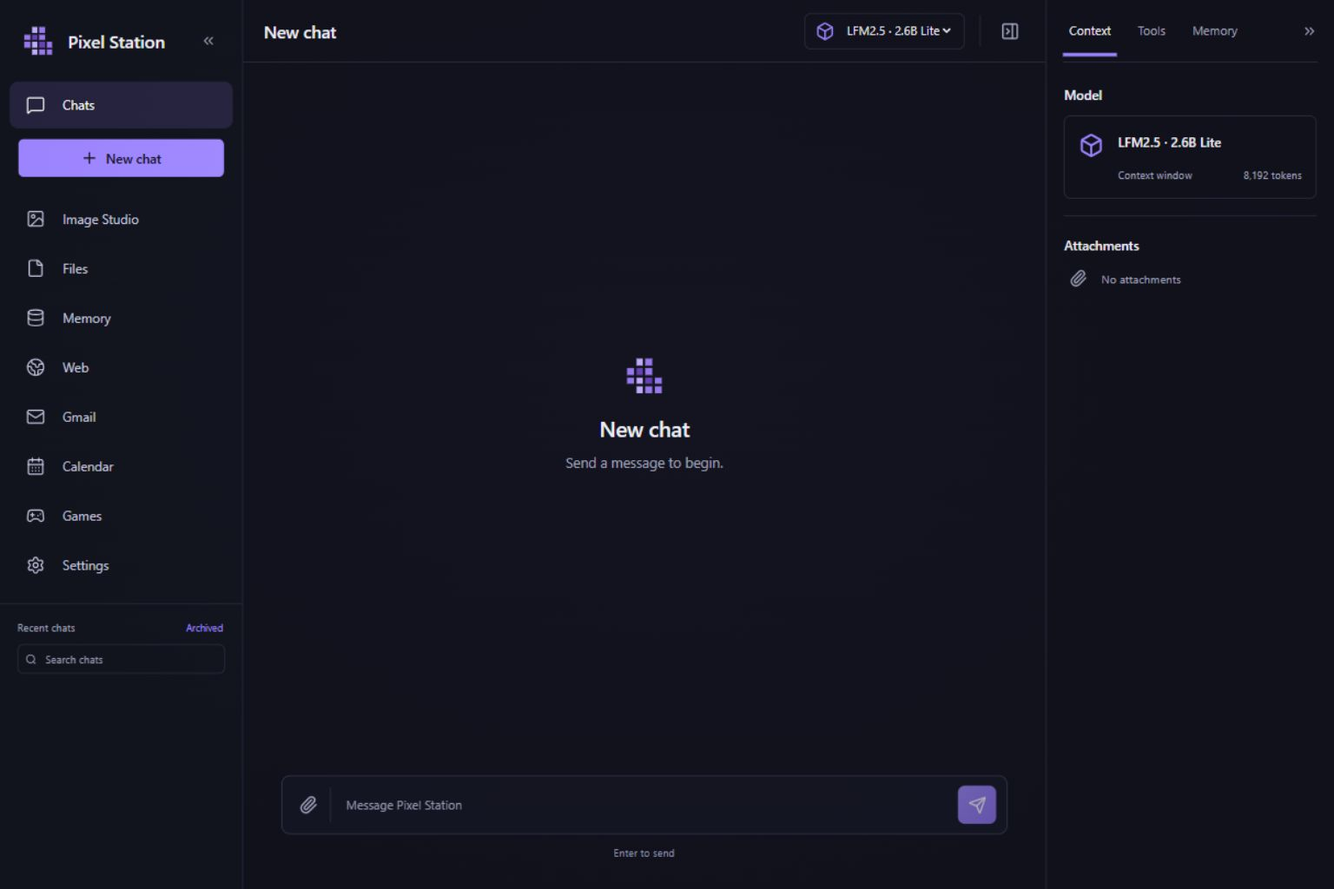
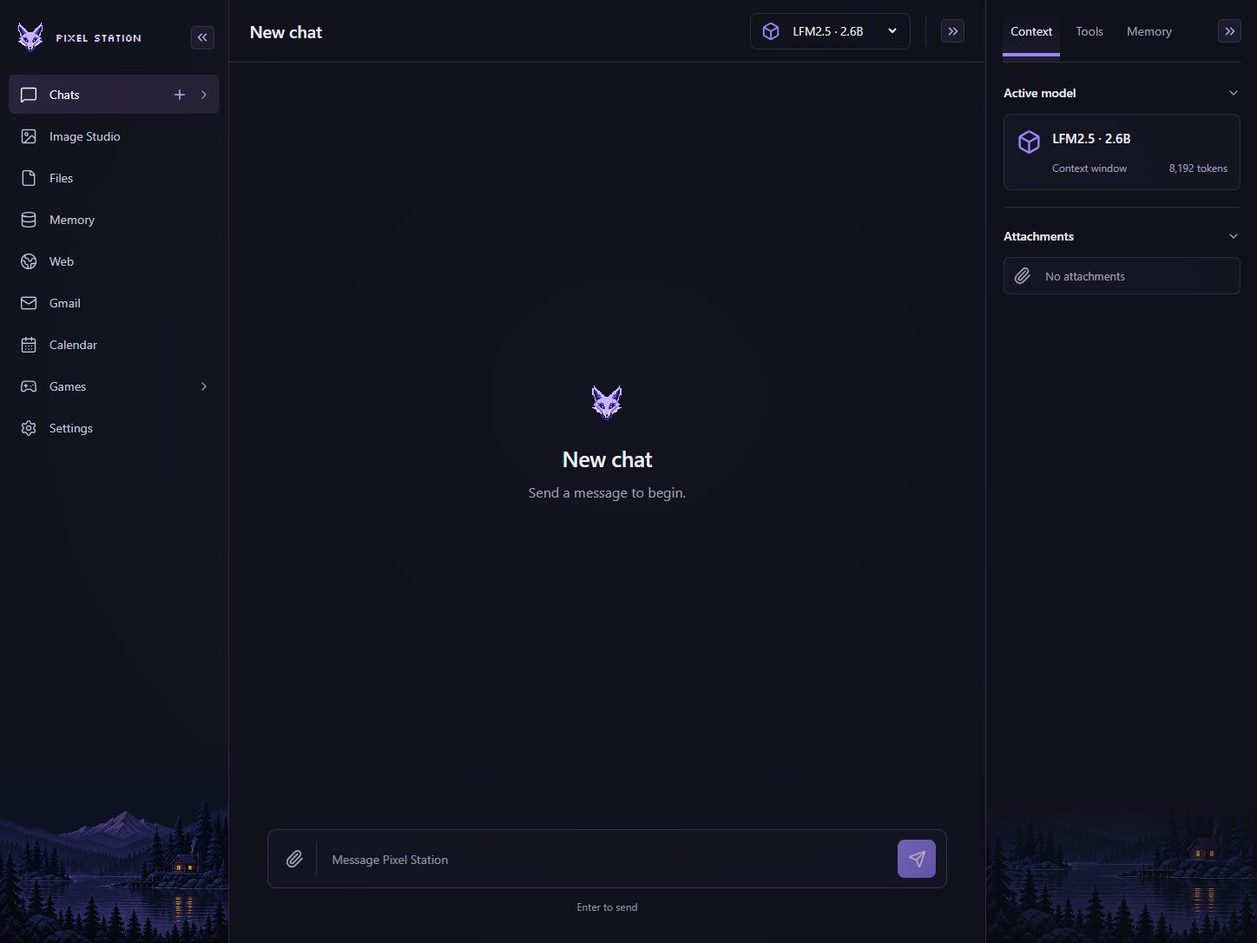
Document measured QA, evaluation scope and public fox interface assets

diff --git a/docs/design/ASSETS.md b/docs/design/ASSETS.md
@@ -1,0 +1,40 @@
+# Pixel Station visual assets
+
+Generated for the interface refinement using Codex's built-in Image Gen tool, in generation mode. These are bundled public UI assets, with no runtime or account content. They do not verify Pixel Station's separate local ComfyUI integration. Portraits use transparent backgrounds; the panel landscape is opaque. CSS preserves the pixel treatment.
+
+- `frontend/public/assets/fox-logo.png`: brand fox; also used for Poker seat 0.
+- `frontend/public/assets/panel-forest.png`: midnight forest, lake and cabin behind both side panels.
+- `frontend/public/assets/poker/seat-1.png` through `seat-5.png`: blue scarf, golden glasses, teal hood, pink cap and amber bandana foxes.
+- `frontend/public/assets/fonts/Silkscreen-Regular.ttf`: [Silkscreen](https://fonts.google.com/specimen/Silkscreen), bundled with its [SIL Open Font License](https://github.com/google/fonts/blob/main/ofl/silkscreen/OFL.txt). Used for the wordmark, with readable UI type elsewhere.
+
+## Generation prompts
+
+### Brand
+
+Use case: logo-brand. Production UI asset: a single pixel-art fox face logo for Pixel Station. Transparent background. Symmetrical front-facing fox head with tall pointed ears, square stepped silhouette, pale lavender face outline and violet indigo ear shadows, two small bright square eyes and a tiny pixel nose. Match refined 1990s 16-bit dark navy desktop UI style, violet #a58aff and pale #cbb9ff. Clearly FOX, not cat: long pointed muzzle and cheek tufts, fox ears. Draw with a disciplined 32x32 or 48x48 pixel grid scaled with perfectly crisp hard square edges. Tight centered crop with the full mark occupying 85% of the square canvas. No text, no badge, no border container, no glow, no gradients, no shadows, no watermark. This will be rendered as a 36px navigation logo and as a small assistant avatar.
+
+### Landscape
+
+Use case: stylized-concept. Production background asset for narrow desktop side panels. A tall portrait 2:3 pixel-art night scene in a refined 16-bit navy and violet palette, matching a dark personal AI workstation. Upper two thirds are nearly empty deep navy #10131f sky so UI content can stay readable. All scenery sits in the bottom third: layered dark indigo pine forests, a small distant violet mountain, a tiny timber cabin with two warm golden illuminated windows near the lower right, a quiet lake reflecting a few golden and violet pixels at the bottom edge. Crisp square pixels, disciplined pixel grid, restrained atmospheric detail, no painted/blurred edges. Bottom edge dense foreground pines; top fades naturally into matching dark navy sky. No text, no logos, no UI, no buttons, no stars behind the upper content. Elegant and calm. Opaque background.
+
+### Poker portraits
+
+#### Seat 1
+
+Use case: stylized-concept. Production portrait icon for a Poker player in Pixel Station. A single front-facing pixel-art FOX head portrait on a genuinely transparent background, centered tight crop filling 85% of a square. Same visual family as a violet pixel fox logo: tall fox ears, long pointed muzzle, square cheek tufts, pale lavender #cbb9ff face, dark indigo shadows and violet #a58aff accents, small bright square eyes. Disciplined 32x32 or48x48 pixel grid scaled with crisp hard square edges, no smooth rendering, no border container, no text, no numbers, no poker cards, no background, no watermark. Friendly distinct personality. Blue scarf tied beneath the chin, with a cobalt band and small square knot. Alert friendly expression.
+
+#### Seat 2
+
+Use case: stylized-concept. Production portrait icon for a Poker player in Pixel Station. A single front-facing pixel-art FOX head portrait on a genuinely transparent background, centered tight crop filling 85% of a square. Same visual family as a violet pixel fox logo: tall fox ears, long pointed muzzle, square cheek tufts, pale lavender #cbb9ff face, dark indigo shadows and violet #a58aff accents, small bright square eyes. Disciplined 32x32 or48x48 pixel grid scaled with crisp hard square edges, no smooth rendering, no border container, no text, no numbers, no poker cards, no background, no watermark. Friendly distinct personality. Small golden square spectacles clearly frame the eyes; confident thoughtful expression.
+
+#### Seat 3
+
+Use case: stylized-concept. Production portrait icon for a Poker player in Pixel Station. A single front-facing pixel-art FOX head portrait on a genuinely transparent background, centered tight crop filling 85% of a square. Same visual family as a violet pixel fox logo: tall fox ears, long pointed muzzle, square cheek tufts, pale lavender #cbb9ff face, dark indigo shadows and violet #a58aff accents, small bright square eyes. Disciplined 32x32 or48x48 pixel grid scaled with crisp hard square edges, no smooth rendering, no border container, no text, no numbers, no poker cards, no background, no watermark. Friendly distinct personality. A teal hood frames the face with pointed fox ears emerging; calm composed expression.
+
+#### Seat 4
+
+Use case: stylized-concept. Production portrait icon for a Poker player in Pixel Station. A single front-facing pixel-art FOX head portrait on a genuinely transparent background, centered tight crop filling 85% of a square. Same visual family as a violet pixel fox logo: tall fox ears, long pointed muzzle, square cheek tufts, pale lavender #cbb9ff face, dark indigo shadows and violet #a58aff accents, small bright square eyes. Disciplined 32x32 or48x48 pixel grid scaled with crisp hard square edges, no smooth rendering, no border container, no text, no numbers, no poker cards, no background, no watermark. Friendly distinct personality. A small berry-pink knit cap sits between the ears; cheerful expression.
+
+#### Seat 5
+
+Use case: stylized-concept. Production portrait icon for a Poker player in Pixel Station. A single front-facing pixel-art FOX head portrait on a genuinely transparent background, centered tight crop filling 85% of a square. Same visual family as a violet pixel fox logo: tall fox ears, long pointed muzzle, square cheek tufts, pale lavender #cbb9ff face, dark indigo shadows and violet #a58aff accents, small bright square eyes. Disciplined 32x32 or48x48 pixel grid scaled with crisp hard square edges, no smooth rendering, no border container, no text, no numbers, no poker cards, no background, no watermark. Friendly distinct personality. An amber bandana crosses the forehead with a tiny side knot; bold playful expression.

diff --git a/docs/ARCHITECTURE.md b/docs/ARCHITECTURE.md
@@ -4,16 +4,20 @@ Pixel Station is a local FastAPI application with a React/Vite frontend. The HTT
 
 `frontend/src` owns views and accessible controls. `backend/pixel_station` owns routes, deterministic services and provider adapters. `backend/tests` verifies rules and persistence. `config` holds non-secret integration examples. `data` holds databases, uploads, generated artifacts, images and logs and is ignored by Git.
 
-The request workflow is route → retrieve bounded context → execute relevant tools → validate → stream a synthesized answer → persist. Plans and tool permissions are checked by application code. The inference adapter discards separate thinking fields and inline reasoning regions before public streaming or structured validation, including split and unterminated tags. Literal code and JSON-string examples remain content. External mutations require explicit confirmation of a concrete action.
+The request workflow is route → retrieve bounded context → execute relevant tools → validate → stream a synthesized answer → persist. Plans and tool permissions are checked by application code. The inference adapter discards separate thinking fields and inline reasoning regions before public streaming or structured validation, including split and unterminated tags. Literal code and JSON-string examples remain content. Gmail sends and Calendar mutations require explicit confirmation of a concrete action; an explicitly requested Gmail draft is saved directly and verified through its returned ID.
 
 Provider interfaces cover inference, embeddings, vision, images, search, web fetch, memory/vector stores, files, email/calendar, tools, games and scheduling. SQLite FTS5 provides lexical search; vector implementation is isolated. Optional integrations can be unavailable without preventing chat or local data management.
 
 API conventions: `/api/health`, `/api/models`, `/api/settings`, `/api/conversations`, `/api/memory`, `/api/files`, `/api/web`, `/api/images`, `/api/google`, `/api/poker`, `/api/harness`. IDs are stable strings. Streaming chat uses newline-delimited JSON events with `type` and event-specific fields. Provider failures return setup and recovery information.
 
+Poker's progressive mutations persist the immediate human move. The NDJSON step endpoint commits one opponent decision or street reveal, with public queued/choosing snapshots and a stable event sequence. The client waits its selected reading pace before requesting another step. Table locks and expected sequences reject concurrent or stale actions; navigation cancels unfinished inference and returning resumes the saved actor. Legacy JSON flows retain their automatic-opponent behavior.
+
+The watchtower stores content-free per-run metrics in `AgentRun.evidence` and separate passive reports/evaluation jobs in `HarnessReport`. Request-scoped observers collect whitelisted Ollama terminal counters without prompts or reasoning. Diagnostic exports omit private content by default. Versioned isolated gates exercise actual core services in temporary databases; bounded native probes run only on explicit request and use the production answer guard. Completion rates do not grade answer correctness, and estimated context tokens are distinct from native usage. Baselines require matching fixture, runner, configuration, package versions and native scope; native matching additionally requires known equal checkpoint digest and Ollama identity. The bounded scan considers the latest 30 completed evaluations, excluding passive reports.
+
 Complex research uses a bounded, schema-validated tool DAG. A fetch step resolves its URL from a real search result; the model cannot invent a fetch target. Simple chat skips planning. The synthesis call receives one bounded system message containing the selected evidence, which also works with small models whose templates retain only the first system message. Unsupported tool protocol is checked throughout the response and triggers at most one bounded answer retry. A streaming `reset` event clears rejected partial text in both the client and persisted response.
 
 Embeddings use SQLite-vec through an isolated adapter, with a portable cosine fallback. Missing vectors are SQL NULL, allowing the persistent idle indexer to reindex edited content and changed embedding roles. Summaries compact ordered message batches; extraction uses only source user messages and excludes private integration results.
 
-File edits stage and reopen a replacement, bind its exact content and original hash to an expiring single-use proposal, and retain the previous managed copy on confirmation. Google writes use the same concrete approval principle, plus version checks where available. Comfy jobs retain their submission endpoint so subsequent settings changes cannot redirect polling or cancellation.
+File edits stage and reopen a replacement, bind its exact content and original hash to an expiring single-use proposal, and retain the previous managed copy on confirmation. Gmail sends and Calendar mutations use the same concrete approval principle, plus version checks where available. Draft creation has its own explicitly requested, reversible path. Comfy jobs retain their submission endpoint so subsequent settings changes cannot redirect polling or cancellation.
 
 File blobs are immutable and addressed by content hash. Generated artifacts with different requested names have independent attachment records over shared bytes; uploads retain content deduplication. Parse sidecars live under each blob's `records/<attachment-id>` directory, preserving existing legacy sidecars. Editing one record changes only its blob reference and keeps sibling records and revision bytes intact.

diff --git a/IMPLEMENTATION_STATUS.md b/IMPLEMENTATION_STATUS.md
@@ -14,7 +14,7 @@
 - Local friction reports, regression candidates, idle persistent scheduling and consistent backups including nested databases and pending file replacements.
 - Custom dark navy/violet interface, separate desktop panel preferences, compact-screen drawers and real setup/error states for absent providers.
 - Single-command Windows launcher, developer guidance, provider setup documentation, actual UI screenshot and separate hashed CI dependencies.
-- Automated verification: **224 backend tests and 28 frontend tests pass**; Ruff, backend mypy, TypeScript production build and frontend formatting pass. GitHub's Linux CI passed with the universal hashed dependency lock, including the fresh functional fixes (runs 37120189618 and 37120508465).
+- Automated verification: **258 backend tests and 44 frontend tests pass**; Ruff, backend mypy, TypeScript production build and frontend formatting pass. GitHub's Linux CI passed with the universal hashed dependency lock, including the previous functional fixes, watchtower and Poker increments (runs 37120189618, 37120508465, 37135175493 and 37135196482).
 - Live Windows/API/UI verification: native GPU chat, attached-file answers with sources, memory edit/revision/restart, confirmed file edit/original revision, native conversation summary, 1024-dimensional memory/document embeddings, complete legal AI Poker hand without fallback, harness reports and launcher shutdown/restart.
 - Desktop 1536×1024 and compact 390×844 rendered checks; corrected model-control wrapping and overlapping mobile drawers. Optional services display their genuine unconfigured state.
 - Final in-app browser page identity, meaningful DOM, overlay, console and interaction checks passed. Independently toggled desktop panels survive reload; compact navigation closes its drawer and the exposed backdrop dismisses context.
@@ -25,10 +25,15 @@
 - Chat validates tool protocol throughout the streamed response and resets rejected partial text before one bounded repair. Provider filtering discards separate and inline reasoning channels, including split and unterminated tags, while preserving public streaming and literal code/JSON examples.
 - Generated artifacts retain their requested names when sharing identical bytes. Real UI task/download/reopen checks verified `functionality-final.csv`, its exact two rows, the unchanged earlier filename and distinct records sharing one immutable blob. Per-record parse metadata and tests cover deletion/edit/revision isolation.
 - The final official-model conversation passed CSV creation followed by a three-step planning request, with every step below 15 words and no persisted reasoning or stale file claim. Ollama reported 100% GPU inference with an 8K context. A clean browser session had no console warnings/errors or horizontal overflow at 1536×1024; Poker state survived the app restart.
+- Fox logo and pixel wordmark, lower forest/cabin scenery in both panels, compact navigation, independent persistent Chats/Games/inspector disclosures and centered SVG carets. Expansion and drawer transitions respect reduced motion; page changes remain immediate. Hover/focus/mobile trash controls open a concrete confirmation dialog; a disposable real API deletion was verified.
+- Progressive Poker streams commit one bot action or street at a time. Adjustable reading pace, current-actor highlights, chip flights, card reveals, six fox portraits and timestamped public event logs make the hand followable. Actual six-player local-model QA completed 15 events without fallback, conserved 600 chips and survived restart; duplicate/cancel/concurrency paths have regression coverage.
+- Settings → Harness now exposes content-free passive metrics, native Ollama counters, latency sample counts, repairs/fallbacks, bounded diagnostic downloads and versioned isolated gates. Six research steps/four retrieved memories are documented conservative starting limits, not tuned best-practice optima or universal quotas.
+- Two final native runner-3 evaluation runs passed all nine gates with the unchanged fixture. The supplied-file answer recorded one protocol rejection and one bounded repair in each passing run. Matching used actual checkpoint digest, Ollama identity, package versions, fixture and configuration; old failed reports remain preserved. Default diagnostics downloaded through Chrome excluded prompts, outputs, fixture filenames and reasoning. See [verification scope](docs/QA.md) and [evaluation guide](docs/EVALUATIONS.md).
+- Final rendered Chrome checks at 1448×1086 and 390×844 passed without horizontal overflow. The reference comparison covered branding, colors, rail/inspector layout, compact spacing, carets, scenery and composer placement. A fresh final tab had no console warnings/errors; the deliberately public README capture contains an empty conversation and no private history.
 
 ## Currently working
 
-- None for the requested functional verification. Tested fixes are committed and pushed; optional provider setup remains below.
+- This interface, Poker and watchtower refinement phase is complete. Optional integration setup is the next phase.
 
 ## Blocked on account or system setup
 

diff --git a/docs/QA.md b/docs/QA.md
@@ -1,0 +1,24 @@
+# Interface, Poker and watchtower verification
+
+Verified on Windows 11 with Chrome through its connected extension, Ollama 0.32.14 and the installed official `LiquidAI/lfm2.5-2.6b:latest` model. These are actual local UI/API checks, separate from isolated automated tests. Runtime conversations, table IDs, diagnostic downloads and temporary QA captures are not committed.
+
+## Rendered interface
+
+- Compared the rendered 1448 × 1086 desktop against the supplied concept: fox/pixel wordmark, navy/violet palette, left rail and right inspector, compact navigation spacing, centered SVG carets, lower forest/cabin scenery on both panels, and composer geometry.
+- The reference's sample travel answer, decorative game placeholders and unavailable tool success indicators are not application data. The public README capture shows a real empty conversation with installed-model information and no private history.
+- Checked 390 × 844 drawers and Poker seats without horizontal overflow. Drawer dismissal restores header focus; only one mobile drawer opens at a time.
+- Chats, Games and inspector disclosures retain independent preferences. Closed contents are inert; focus exposes the chat trash button. The concrete delete dialog supports cancellation; the actual API rejected unconfirmed deletion and removed an explicitly confirmed disposable QA conversation.
+- Native select options use readable foreground/background colors. Page navigation is immediate; expansion and panel resizing use transitions with reduced-motion support.
+- A fresh final Chrome tab showed the correct page identity, meaningful content and no console warnings/errors.
+
+## Real local Poker
+
+A six-seat hand used the actual local model, distinct fox portraits and a two-second reading pace. The current actor and legal human controls remained visible. Five opponents resolved the human all-in sequentially; flop, turn, river and showdown appeared in separate saved steps. The public log retained timestamps, streets, paid chips, pot changes and the result. Fifteen events completed the hand with no model fallback; all 600 starting chips were conserved. A separate streamed API check observed queued, choosing, committed and done phases for one bot action without advancing the board early. Saved table state survived application restart.
+
+## Measurable evaluation scope
+
+The native gates exercise the production answer validator. An initial supplied-file probe exposed a guard bypass; its failed report remains in the local history. The corrected path records rejected protocol, repairs, resets and attempted inference even when the final answer passes. Runner versions keep changed execution/validation rules out of matched comparisons. The supplied-file validator rejects contradictory or competing verification codes.
+
+The final runner records checkpoint digest, Ollama identity, package versions, fixture hash and safe configuration. Matched repeated runs test comparison plumbing; their latency differences are not a performance benchmark. Passive completion rates likewise do not grade answer correctness. The default diagnostic export was downloaded through Chrome and checked for omission of prompts, answers, fixture filenames and discarded reasoning. See [evaluation scope and limit rationale](EVALUATIONS.md).
+
+Web research, local ComfyUI generation and live Gmail/Calendar operations still require their separate setup and remain unverified end to end. Bundled interface art was created with Codex's Image Gen tool, which does not verify the application's ComfyUI adapter.

diff --git a/README.md b/README.md
@@ -52,14 +52,14 @@ Prefer the official registry model for chat and structured roles. A live follow-
 
 ## Workspaces
 
-- **Chats:** persistent conversations, streaming replies, search, rename, archive/delete, attachment input, message feedback and copy/regeneration actions.
+- **Chats:** persistent conversations, streaming replies, search, rename, archive/delete, attachment input, message feedback and copy/regeneration actions. Chats and Games expand independently; chat rows reveal a confirmed-delete control on hover or keyboard focus.
 - **Files:** local uploads, parsed sections, file questions and deterministic TXT, Markdown, CSV, XLSX, DOCX and PDF generation. Reviewed edits require confirmation and preserve the previous version. Original uploads are deduplicated by content hash. The paperclip is the chat attachment control.
 - **Memory:** explicit and extracted memories, search, categories, pinning, edits, revisions and source provenance. Automatic candidates must cite an actual user message from the summarized batch; uncited candidates are skipped. Conversation summaries keep older turns out of the immediate context window. Retrieval remains useful through lexical search when embeddings are unavailable.
 - **Web:** configured SearXNG searches and bounded research with actual retrieved sources. HTTP fetching rejects non-public network targets and enforces resource limits.
 - **Image Studio:** direct ComfyUI workflows, prompt/seed/dimension controls, real generation jobs and a persistent image library. Image prompts are not rewritten automatically by a chat model.
 - **Gmail / Calendar:** official Google API connectors, after personal OAuth setup. Email sending and Calendar changes require application-enforced confirmation. Explicitly requested Gmail draft creation is reversible and verified through the API.
-- **Games:** one implementation, no-limit Texas Hold'em. Deterministic dealing, hand evaluation, betting and side-pot accounting; each AI player receives only its own cards and public information. Invalid or unavailable model actions use a surfaced legal fallback.
-- **Settings:** local models, provider endpoints, memory/context limits, harness reports and data management.
+- **Games:** 2–6 seat no-limit Texas Hold'em with distinct fox portraits, a highlighted current actor, adjustable action pacing and chip movement. Each opponent action and street reveal is saved before the next is requested; the timestamped log records paid chips and pot changes. Deterministic dealing, betting, hand evaluation and side pots protect chip accounting; AI players receive only their own cards and public information. Invalid or unavailable model actions use a surfaced legal fallback. Leaving pauses the next move; returning resumes the saved actor.
+- **Settings:** local models, provider endpoints, memory/context limits and data management. The local [watchtower](docs/EVALUATIONS.md) records measured outcomes, latency, native usage and known repairs/fallbacks; active versioned gates and manual native probes remain separate from passive statistics. Diagnostic JSON downloads exclude private content by default. Six research steps and four memories are conservative initial limits, not empirically tuned optima.
 
 Optional integrations show their real setup or connection errors until configured. They never fabricate search results, email, calendar entries or images.
 

diff --git a/docs/design/DESIGN_SYSTEM.md b/docs/design/DESIGN_SYSTEM.md
@@ -2,10 +2,10 @@
 
 Active full-screen concept: `chat-concept.png` (1536 × 1024), generated with the built-in Image Gen tool from the user's visual brief. It is a design reference, not runtime application output.
 
-Dark navy graphite background (#10111b), sidebar (#141520), subtle borders (#292b3c), primary violet (#9e8af7), readable neutral text (#eeedf8), muted labels (#9a9db4). No cyan accents. Modern Segoe UI/Inter typography, normal body 14–16 px, labels 12 px; pixel grid marks are reserved for the logo and empty chat glyph.
+Dark navy graphite background (#10111b), sidebar (#141520), subtle borders (#292b3c), primary violet (#9e8af7), readable neutral text (#eeedf8), muted labels (#9a9db4). Modern Segoe UI/Inter typography, normal body 14–16 px, labels 12 px. The fox logo and Silkscreen wordmark use a pixel treatment; six related fox portraits identify Poker seats. A restrained forest, mountain, cabin and lake scene sits beneath both side panels. See [bundled assets and prompts](ASSETS.md).
 
-Layout is a collapsible left rail, dominant central workspace with minimal 64–72 px top bar and independently collapsible right inspector. Main controls use restrained 8 px corners, thin borders and clear keyboard focus. Navigation and libraries use rows/open panels, rather than nested cards. Small violet action buttons are reserved for primary actions.
+Layout is a collapsible left rail, dominant central workspace with minimal 64–72 px top bar and independently collapsible right inspector. Chats and Games retain independent expansion preferences, as do inspector sections. Main controls use restrained 8 px corners, thin borders and clear keyboard focus. Navigation and libraries use compact rows/open panels. Small violet action buttons are reserved for primary actions. SVG disclosure carets stay centered; native select options have explicit dark backgrounds and light text.
 
 The empty Chats surface has the title “New chat”, instruction “Send a message to begin.”, a paperclip composer with “Message Pixel Station”, a send arrow, and “Enter to send”. Navigation contains Chats, Image Studio, Files, Memory, Web, Gmail, Calendar, Games and Settings. There are no prompt suggestions, marketing slogans or runtime/offline labels.
 
-Other requested feature views extend these tokens with functional forms, source lists, confirmation dialogs, document previews and the Poker table. Responsive layouts keep the composer usable and collapse inspector/rail on narrower screens. Sidebar state persists; all visible controls invoke implemented actions.
+Other requested feature views extend these tokens with functional forms, source lists, confirmation dialogs, document previews and the Poker table. Responsive layouts keep the composer usable and collapse inspector/rail on narrower screens. Closed regions are inert and hidden from assistive technology; drawer dismissal restores focus. Panel widths and disclosure heights animate, while page navigation is immediate. Reduced motion disables ornamental movement. Poker separately retains a readable action pace and highlights the actual actor; animations depict saved chip payments and street reveals.
